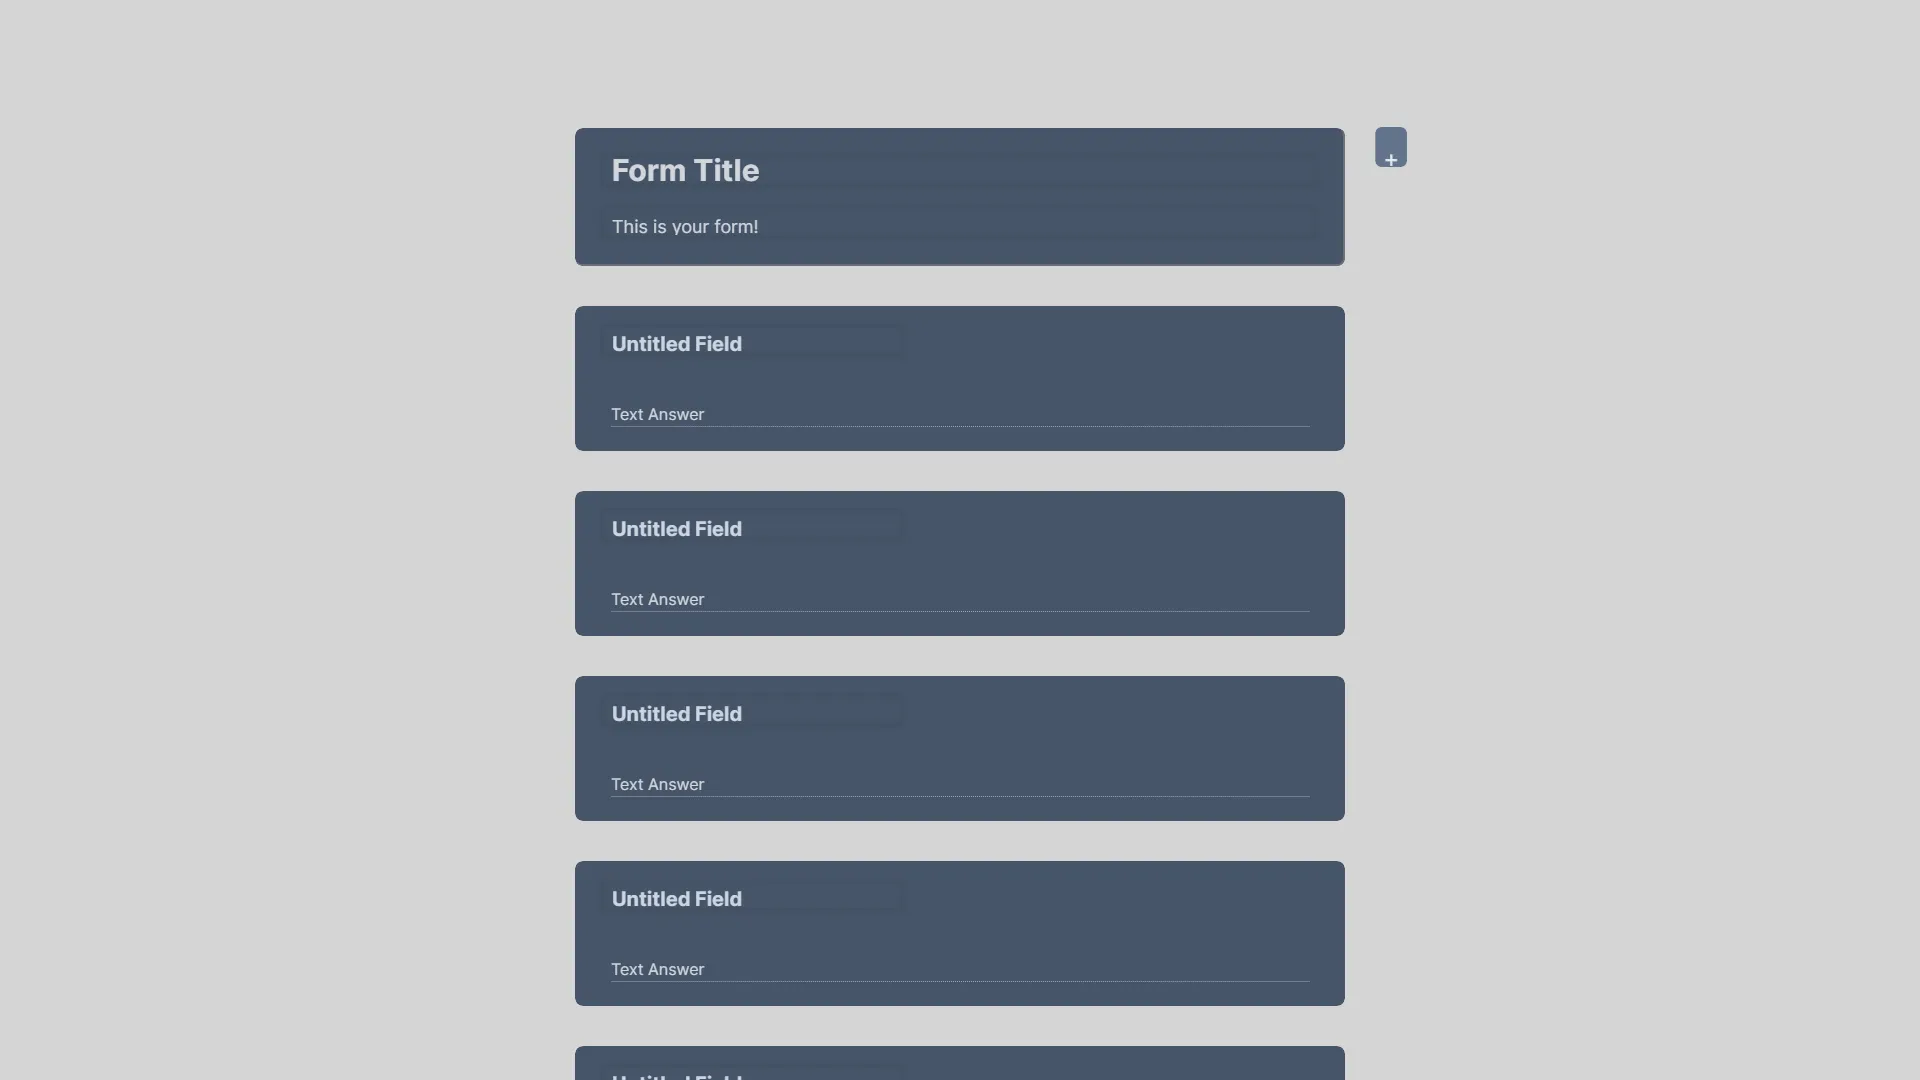
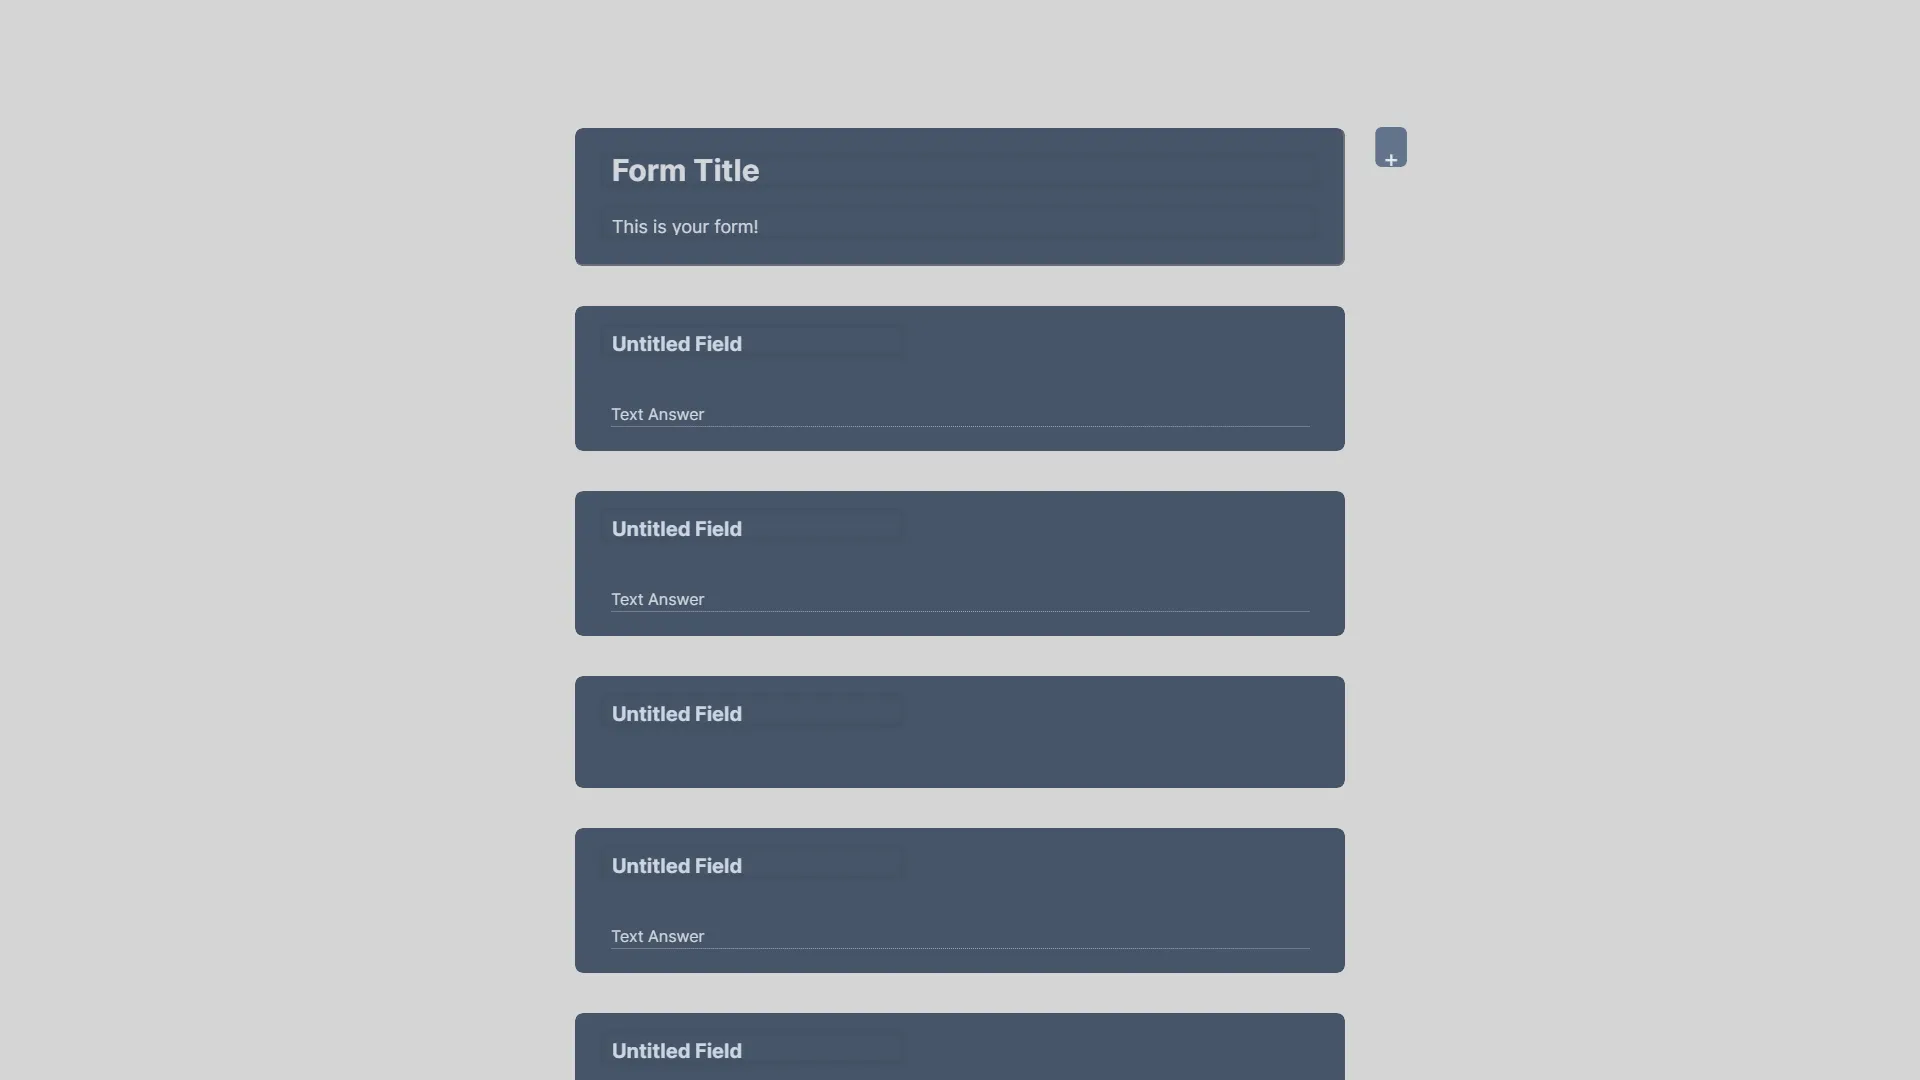
fix screenshot not working on form load, added lineal scale answer type dummy

Changed region(s): [[0.2812, 0.7028, 0.7188, 1.0]]

diff --git a/tailwind.config.ts b/tailwind.config.ts
@@ -6,7 +6,7 @@ const config: Config = {
     "./src/pages/**/*.{js,ts,jsx,tsx,mdx}",
     "./src/components/**/*.{js,ts,jsx,tsx,mdx}",
     "./src/app/**/*.{js,ts,jsx,tsx,mdx}",
-    "./node_modules/@nextui-org/theme/dist/**/*.{js,ts,jsx,tsx}"
+    "./node_modules/@nextui-org/theme/dist/**/*.{js,ts,jsx,tsx}",
   ],
   theme: {
     extend: {
@@ -24,15 +24,15 @@ const config: Config = {
       {
         light: {
           ...require("daisyui/src/theming/themes")["light"],
-          "base-200": "#F2F3F4",
+          "base-200": "#FAF9F6",
           "base-300": "#D5D5D5",
         },
       },
       {
-        dark:{
+        dark: {
           ...require("daisyui/src/theming/themes")["dark"],
-        }
-      }
+        },
+      },
     ],
     darkTheme: "dark", // name of one of the included themes for dark mode
     base: true, // applies background color and foreground color for root element by default
@@ -41,7 +41,6 @@ const config: Config = {
     prefix: "", // prefix for daisyUI classnames (components, modifiers and responsive class names. Not colors)
     logs: true, // Shows info about daisyUI version and used config in the console when building your CSS
     themeRoot: ":root", // The element that receives theme color CSS variables
-    
   },
 };
 export default config;

diff --git a/src/components/formAdmin/formFields/FormField.tsx b/src/components/formAdmin/formFields/FormField.tsx
@@ -12,6 +12,7 @@ import { RadioButtons } from "../answerFields/OneAnswer";
 import { CheckboxAnswer } from "../answerFields/CheckboxAnswer";
 import React from "react";
 import { saveImageServer } from "../../../../actions/saveImageServer";
+import { LinealScale } from "../answerFields/linealScale";
 
 export const FormField = ({
   field,
@@ -151,6 +152,11 @@ export const FormField = ({
           <CheckboxAnswer formid={formid} field={field} />
         </div>
       )}
+      {fieldAnswerType === 6 && (
+        <div className="w-full p-6 pt-2 pb-6">
+          <LinealScale formid={formid} field={field} />
+        </div>
+      )}
     </div>
   );
 };
@@ -162,6 +168,7 @@ const answerList = [
   "Time",
   "Radio Buttons",
   "Checkboxes",
+  "Lineal Scale",
 ];
 
 const getAnswerType = (answerIndex: number) => {

diff --git a/src/app/(protected)/forms/form/[formid]/page.tsx b/src/app/(protected)/forms/form/[formid]/page.tsx
@@ -25,7 +25,7 @@ const FormPage = () => {
     async function getxd() {
       const formtmp = await getSavedForm(pathname.split("/")[3]);
       setForm(formtmp);
-      captureScreenshot();
+      setTimeout(captureScreenshot, 1000);
     }
     getxd();
   }, []);

diff --git a/src/components/formAdmin/answerFields/linealScale.tsx b/src/components/formAdmin/answerFields/linealScale.tsx
@@ -1,0 +1,9 @@
+export const LinealScale = ({
+  field,
+  formid,
+}: {
+  field: any;
+  formid: string;
+}) => {
+  return <div className="px-3"></div>;
+};
